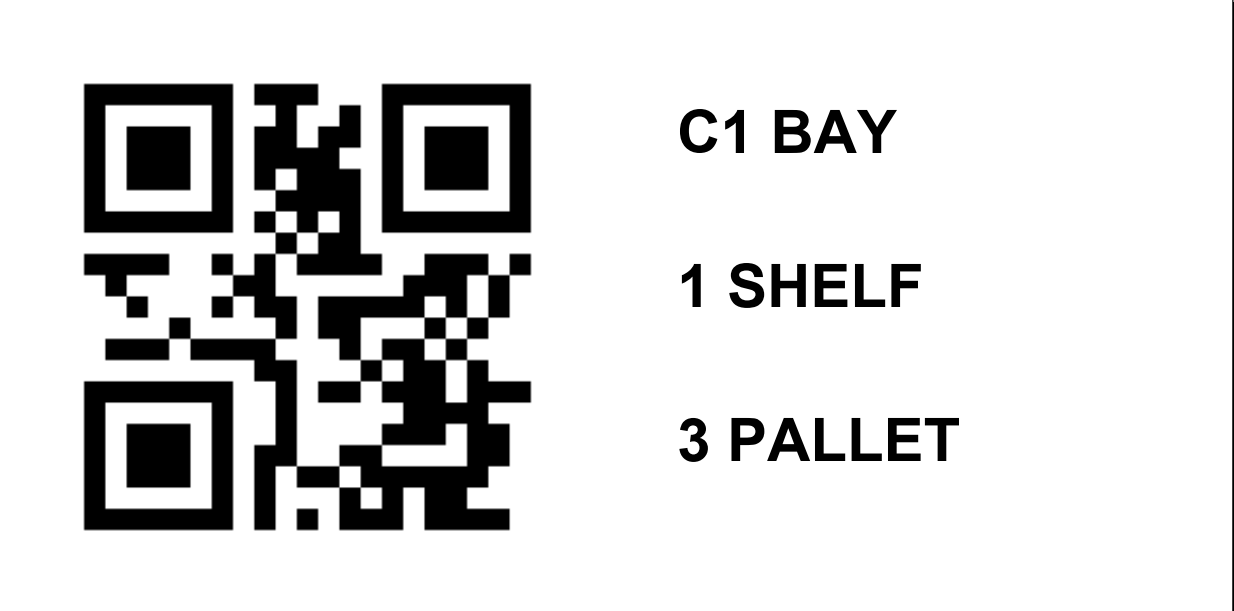
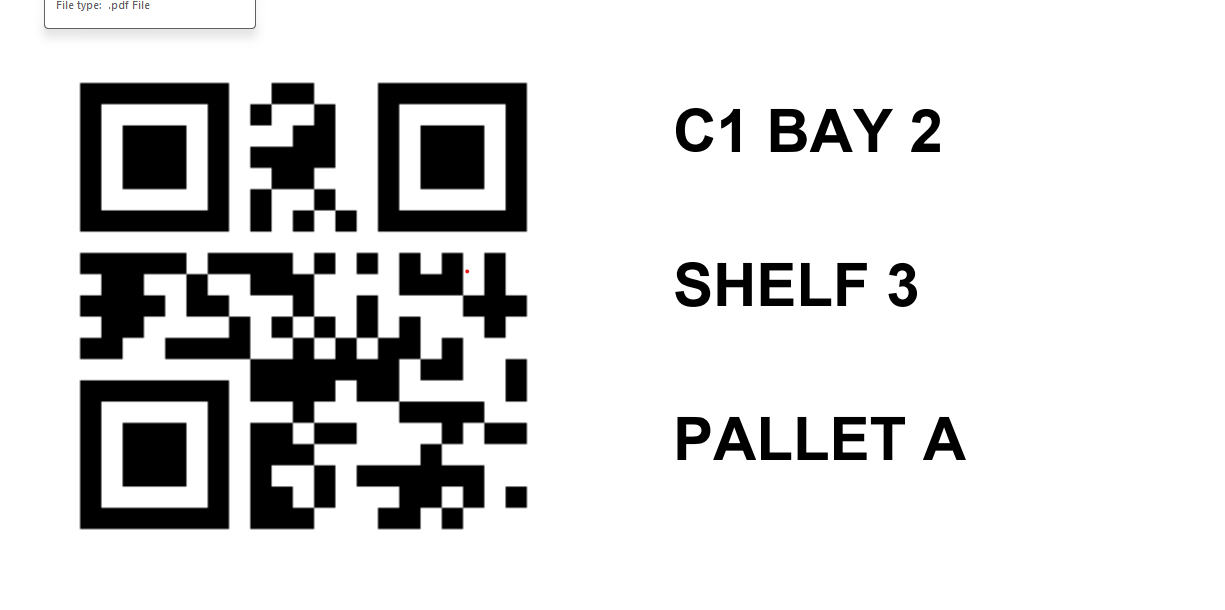
page two and alternative code updates

diff --git a/qr_code_app/lib/pagetwo.dart b/qr_code_app/lib/pagetwo.dart
@@ -1,18 +1,146 @@
 import 'package:flutter/material.dart';
+import 'dart:io';
+import 'package:path_provider/path_provider.dart';
+import 'package:open_file/open_file.dart';
 
-class PageTwo extends StatelessWidget {
+class PageTwo extends StatefulWidget {
+  @override
+  _PageTwoState createState() => _PageTwoState();
+}
+
+class _PageTwoState extends State<PageTwo> {
+  final TextEditingController _textController = TextEditingController();
+  bool isLoading = false;
+  String? lastGeneratedPdfPath;
+
+  Future<void> generateQRCodePdf(String data) async {
+    if (data.isEmpty) {
+      ScaffoldMessenger.of(context).showSnackBar(
+        SnackBar(content: Text('Please enter a location for the QR code')),
+      );
+      return;
+    }
+
+    setState(() {
+      isLoading = true;
+    });
+
+    try {
+      // Get the Downloads directory to save the PDF
+      final directory = await getDownloadsDirectory();
+      if (directory == null) {
+        ScaffoldMessenger.of(context).showSnackBar(
+          SnackBar(content: Text('Unable to access Downloads directory')),
+        );
+        return;
+      }
+      final sanitizedName = data.replaceAll(RegExp(r'[^\w\s]'), '_').trim();
+      final outputPath = '${directory.path}/${sanitizedName}_QRcode.pdf';
+
+      // Execute Python script
+      final result = await Process.run('python', [
+        'assets\\QR_code_Alternative.py', // path to Python script
+        '--data', data,
+        '--output', outputPath,
+        '--mode',
+        'single_pdf',
+      ]);
+
+      if (result.exitCode == 0) {
+        setState(() {
+          lastGeneratedPdfPath = outputPath;
+        });
+
+        ScaffoldMessenger.of(context).showSnackBar(
+          SnackBar(
+            content: Text('PDF saved successfully!'),
+            duration: Duration(seconds: 20), //duration
+            action: SnackBarAction(
+              label: 'Open',
+              onPressed: () => openFile(outputPath),
+            ),
+          ),
+        );
+      } else {
+        ScaffoldMessenger.of(context).showSnackBar(
+          SnackBar(content: Text('Error generating PDF: ${result.stderr}')),
+        );
+        print('Error: ${result.stderr}');
+      }
+    } catch (e) {
+      ScaffoldMessenger.of(
+        context,
+      ).showSnackBar(SnackBar(content: Text('Exception: $e')));
+      print('Exception: $e');
+    } finally {
+      setState(() {
+        isLoading = false;
+      });
+    }
+  }
+
+  // Open a file using the open_file package
+  Future<void> openFile(String path) async {
+    try {
+      final result = await OpenFile.open(path);
+      if (result.type != ResultType.done) {
+        ScaffoldMessenger.of(context).showSnackBar(
+          SnackBar(content: Text('Failed to open file: ${result.message}')),
+        );
+      }
+    } catch (e) {
+      print('Error opening file: $e');
+      ScaffoldMessenger.of(
+        context,
+      ).showSnackBar(SnackBar(content: Text('Error opening file: $e')));
+    }
+  }
+
+  @override
+  void dispose() {
+    _textController.dispose();
+    super.dispose();
+  }
+
   @override
   Widget build(BuildContext context) {
     return Scaffold(
-      appBar: AppBar(title: Text('Page Two')),
+      appBar: AppBar(
+        title: Text('Page Two'),
+        backgroundColor: const Color.fromARGB(255, 232, 216, 252),
+        leading: IconButton(
+          icon: Icon(Icons.home),
+          onPressed: () {
+            Navigator.pop(context); // Navigate back to the previous screen
+          },
+        ),
+      ),
       body: Center(
         child: Column(
           mainAxisAlignment: MainAxisAlignment.center,
           children: [
             Text(
-              'Make a QR code with 3 lines of text',
+              'Make a 3 line QR code PDF Example: ',
               style: TextStyle(fontSize: 30),
+              textAlign: TextAlign.center,
             ),
+            Image.asset('assets/images/3LineQRcode.png', height: 200),
+            Padding(
+              padding: const EdgeInsets.all(20.0),
+              child: TextField(
+                controller: _textController,
+                decoration: InputDecoration(
+                  border: OutlineInputBorder(),
+                  labelText: 'Enter QR code location',
+                ),
+              ),
+            ),
+            isLoading
+                ? CircularProgressIndicator()
+                : ElevatedButton(
+                  onPressed: () => generateQRCodePdf(_textController.text),
+                  child: Text('Generate QR code PDF'),
+                ),
           ],
         ),
       ),

diff --git a/qr_code_app/lib/main.dart b/qr_code_app/lib/main.dart
@@ -10,7 +10,7 @@ class MyApp extends StatelessWidget {
       theme: ThemeData(
         useMaterial3: true,
         colorScheme: ColorScheme.fromSeed(
-          seedColor: const Color.fromARGB(255, 100, 0, 100),
+          seedColor: const Color.fromARGB(255, 64, 4, 133),
         ),
       ),
       home: Landingpage(),

diff --git a/qr_code_app/assets/QR_code_Alternative.py b/qr_code_app/assets/QR_code_Alternative.py
@@ -5,7 +5,7 @@ from reportlab.lib.utils import ImageReader
 import io
 import argparse
 
-# same as OG 
+# same as OG
 def create_qr_code(data):
     qr = qrcode.QRCode(
         version=1,
@@ -22,6 +22,8 @@ def create_qr_code(data):
     img_byte_arr.seek(0)
     return img_byte_arr
 
+
+# same as OG
 def save_single_qr(data, output_path):
     """Generate a single QR code and save it as PNG"""
     qr = qrcode.QRCode(
@@ -36,6 +38,7 @@ def save_single_qr(data, output_path):
     img.save(output_path)
     return output_path
 
+
 # same as OG    
 def add_qr_to_pdf(strings, filename):
     c = canvas.Canvas(filename, pagesize=(4*inch, 2*inch))
@@ -46,34 +49,47 @@ def add_qr_to_pdf(strings, filename):
         img_reader = ImageReader(qr_stream)
         
         c.drawImage(img_reader, 0, 0, width=2*inch, height=2*inch)
-        
-        # Split text into two parts if it contains "PLT" additional IF else statment 
-        if "PLT " in s:
-            parts = s.split("PLT ")  # Add space after PLT
-            first_line = parts[0].strip()
-            second_line = "PLT " + parts[1].strip()  # Add space after PLT
+        # splits text into 3 lines
+        def format_text(s):
+            """Splits the location string into three meaningful parts."""
+            parts = s.split()
+
+            if len(parts) > 6:
+                first_line = f"{parts[0]} {parts[1]} {parts[2]}"  # Example: "C1 BAY"
+                second_line = f"{parts[3]} {parts[4]}"  # Example: "1 SHELF"
+                third_line = f"{parts[5]} {parts[6]}" if len(parts) > 6 else parts[5]  # Example: "3 PALLET A"
+
+                # Set fixed x position at 2.1 inches (just after QR code)
+                x_position = 2.1*inch
             
-            # Set fixed x position at 2.1 inches (just after QR code)
-            x_position = 2.1*inch
+                # Draw both lines with fixed left alignment
+                c.drawString(x_position, 1.5*inch, first_line)
+                c.drawString(x_position, 1.0*inch, second_line)
+                c.drawString(x_position, 0.5*inch, third_line)
+            else:
+                first_line = f"{parts[0]} {parts[1]} {parts[2]}"  # Example: "C1 BAY 1"
+                second_line = f"{parts[3]}"  # Example: "SHELF"
+                third_line = f"{parts[4]} {parts[5]}"  # Example: "PALLET A"
+                
+                # Set fixed x position at 2.1 inches (just after QR code)
+                x_position = 2.1*inch
             
-            # Draw both lines with fixed left alignment
-            c.drawString(x_position, 1.2*inch, first_line)
-            c.drawString(x_position, 0.8*inch, second_line)
-        else:
-            # If there's no "PLT" in the string, just draw the whole string
-            x_position = 2.1*inch
-            c.drawString(x_position, 1.0*inch, s)
-            
+                # Draw both lines with fixed left alignment
+                c.drawString(x_position, 1.5*inch, first_line)
+                c.drawString(x_position, 1.0*inch, second_line)
+                c.drawString(x_position, 0.5*inch, third_line)
+
         c.showPage()
     c.save()
+        
+  
 
-# New function to generate a PDF with a single QR code
 def create_single_qr_pdf(data, output_path):
     """Generate a PDF with a single QR code and its text"""
     add_qr_to_pdf([data], output_path)
     return output_path
 
-# New main function to handle different modes
+
 if __name__ == "__main__":
     parser = argparse.ArgumentParser(description='Generate QR Code or PDF')
     parser.add_argument('--data', help='Data to encode in single QR code')
@@ -91,3 +107,16 @@ if __name__ == "__main__":
         # Generate a PDF with a single QR code
         output_path = create_single_qr_pdf(args.data, args.output)
         print(output_path)  # Print the path so Flutter can capture it
+
+
+
+def add_qr_to_pdf(strings, filename):
+    c = canvas.Canvas(filename, pagesize=(4*inch, 2*inch))
+    font_size = 16
+    for s in strings:
+        c.setFont("Helvetica-Bold", font_size)
+        qr_stream = create_qr_code(s)
+        img_reader = ImageReader(qr_stream)
+        
+        c.drawImage(img_reader, 0, 0, width=2*inch, height=2*inch)
+
